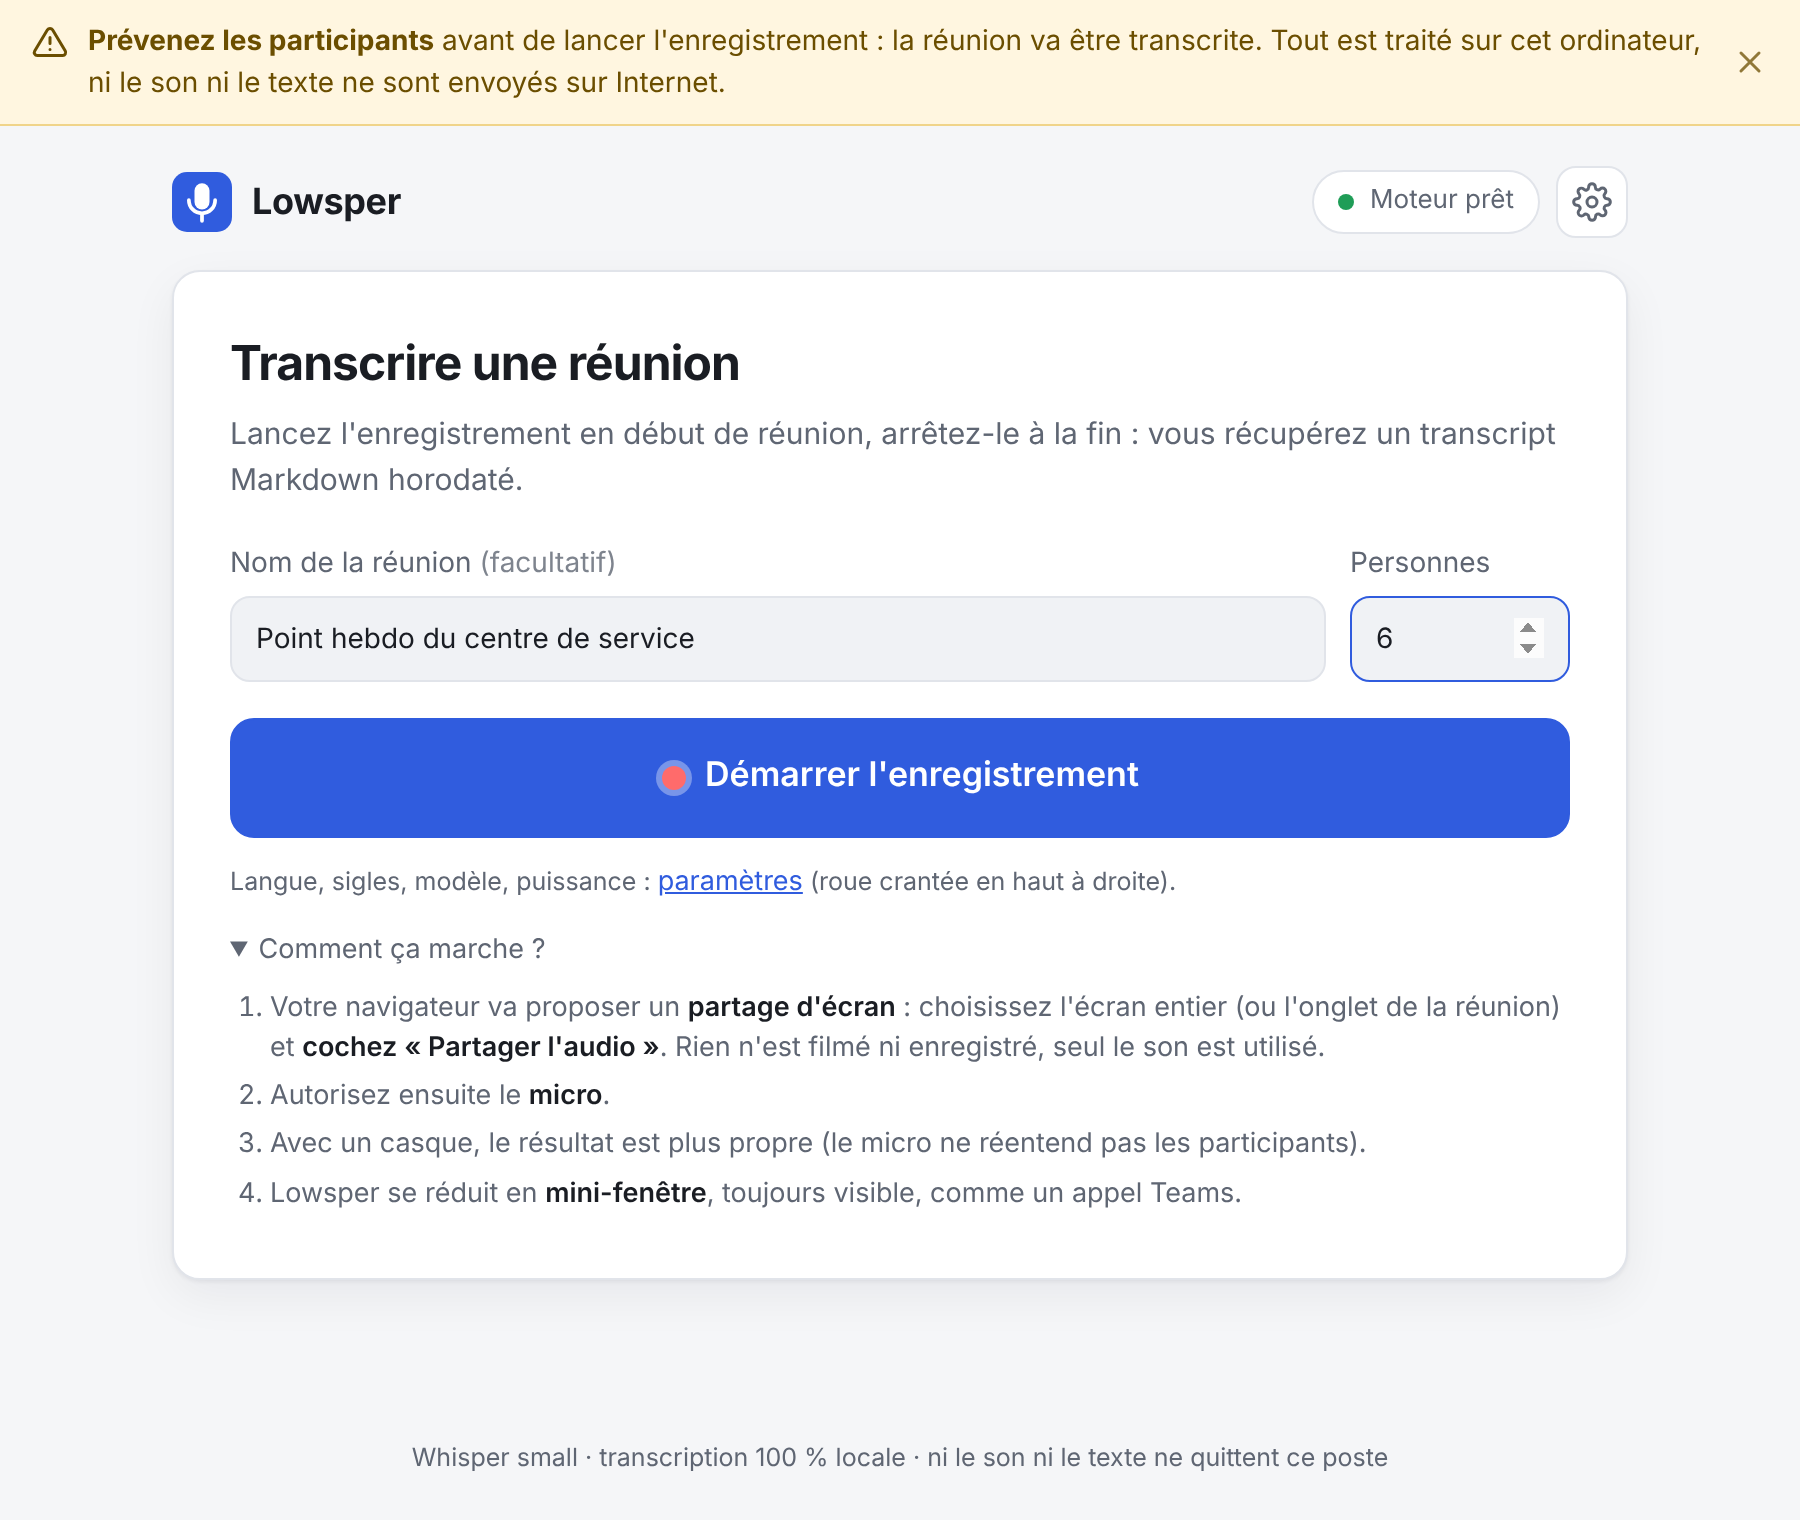
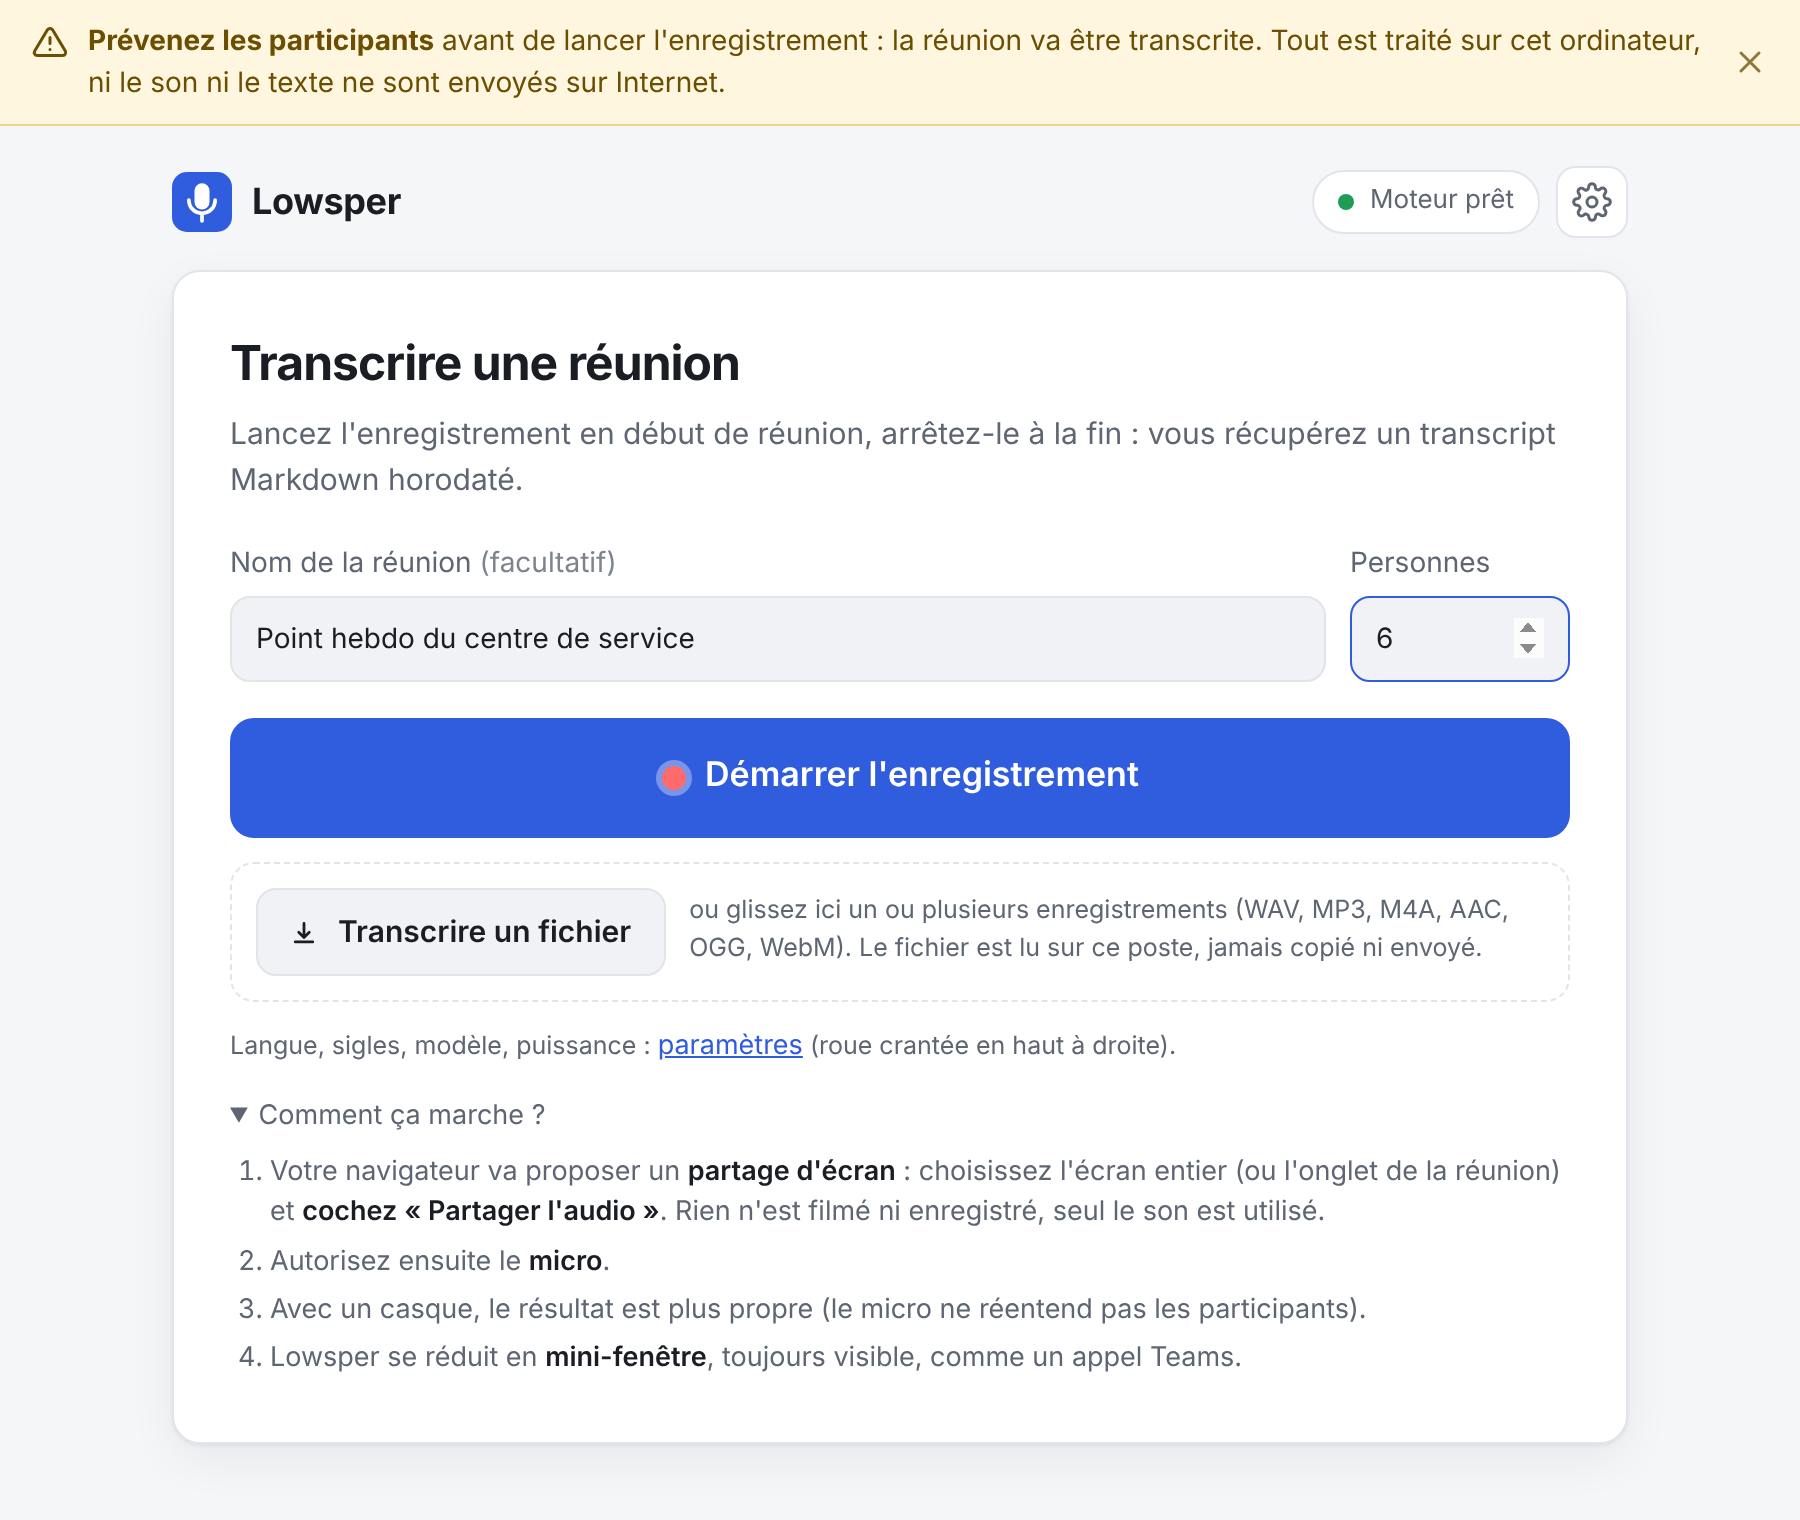
docs(import): captures d'écran (accueil, import) et espacement du bouton Annuler
Claude-Session: https://claude.ai/code/session_01G6rbD9QTFo4N6P1J8AiAU3

Changed region(s): [[0.1244, 0.5566, 0.8711, 0.8967], [0.8089, 0.7421, 0.84, 0.773]]

diff --git a/app/css/lowsper.css b/app/css/lowsper.css
@@ -465,6 +465,7 @@ body.mini:not(.expanded) .rec-core:has(.notice:not([hidden])) #pip-more { color:
 .import-list li .st { color: var(--muted); white-space: nowrap; }
 .import-list li.current { outline: 1.5px solid var(--accent); }
 .import-list li.error .st { color: var(--rec); }
+#view-import .row { margin-top: 16px; }
 @media (max-width: 560px) { .settings-body { padding: 0 14px 14px; } .settings-head { padding: 12px 14px; } }
 
 /* Croix du bandeau d'avertissement */

diff --git a/README.md b/README.md
@@ -105,6 +105,8 @@ cliquez sur **« Transcrire un fichier »**, ou glissez un ou plusieurs fichiers
 - Le fichier est lu par morceaux depuis son emplacement, jamais copié ni envoyé ; le son décodé
   n'est jamais écrit sur le disque.
 
+![Transcription de deux fichiers fictifs : avancement, file d'attente, annulation](docs/images/import.png)
+
 Déploiement sur un parc (DSI, RSSI) : voir [docs/deploiement.md](docs/deploiement.md).
 
 ## À quoi ressemble le transcript
